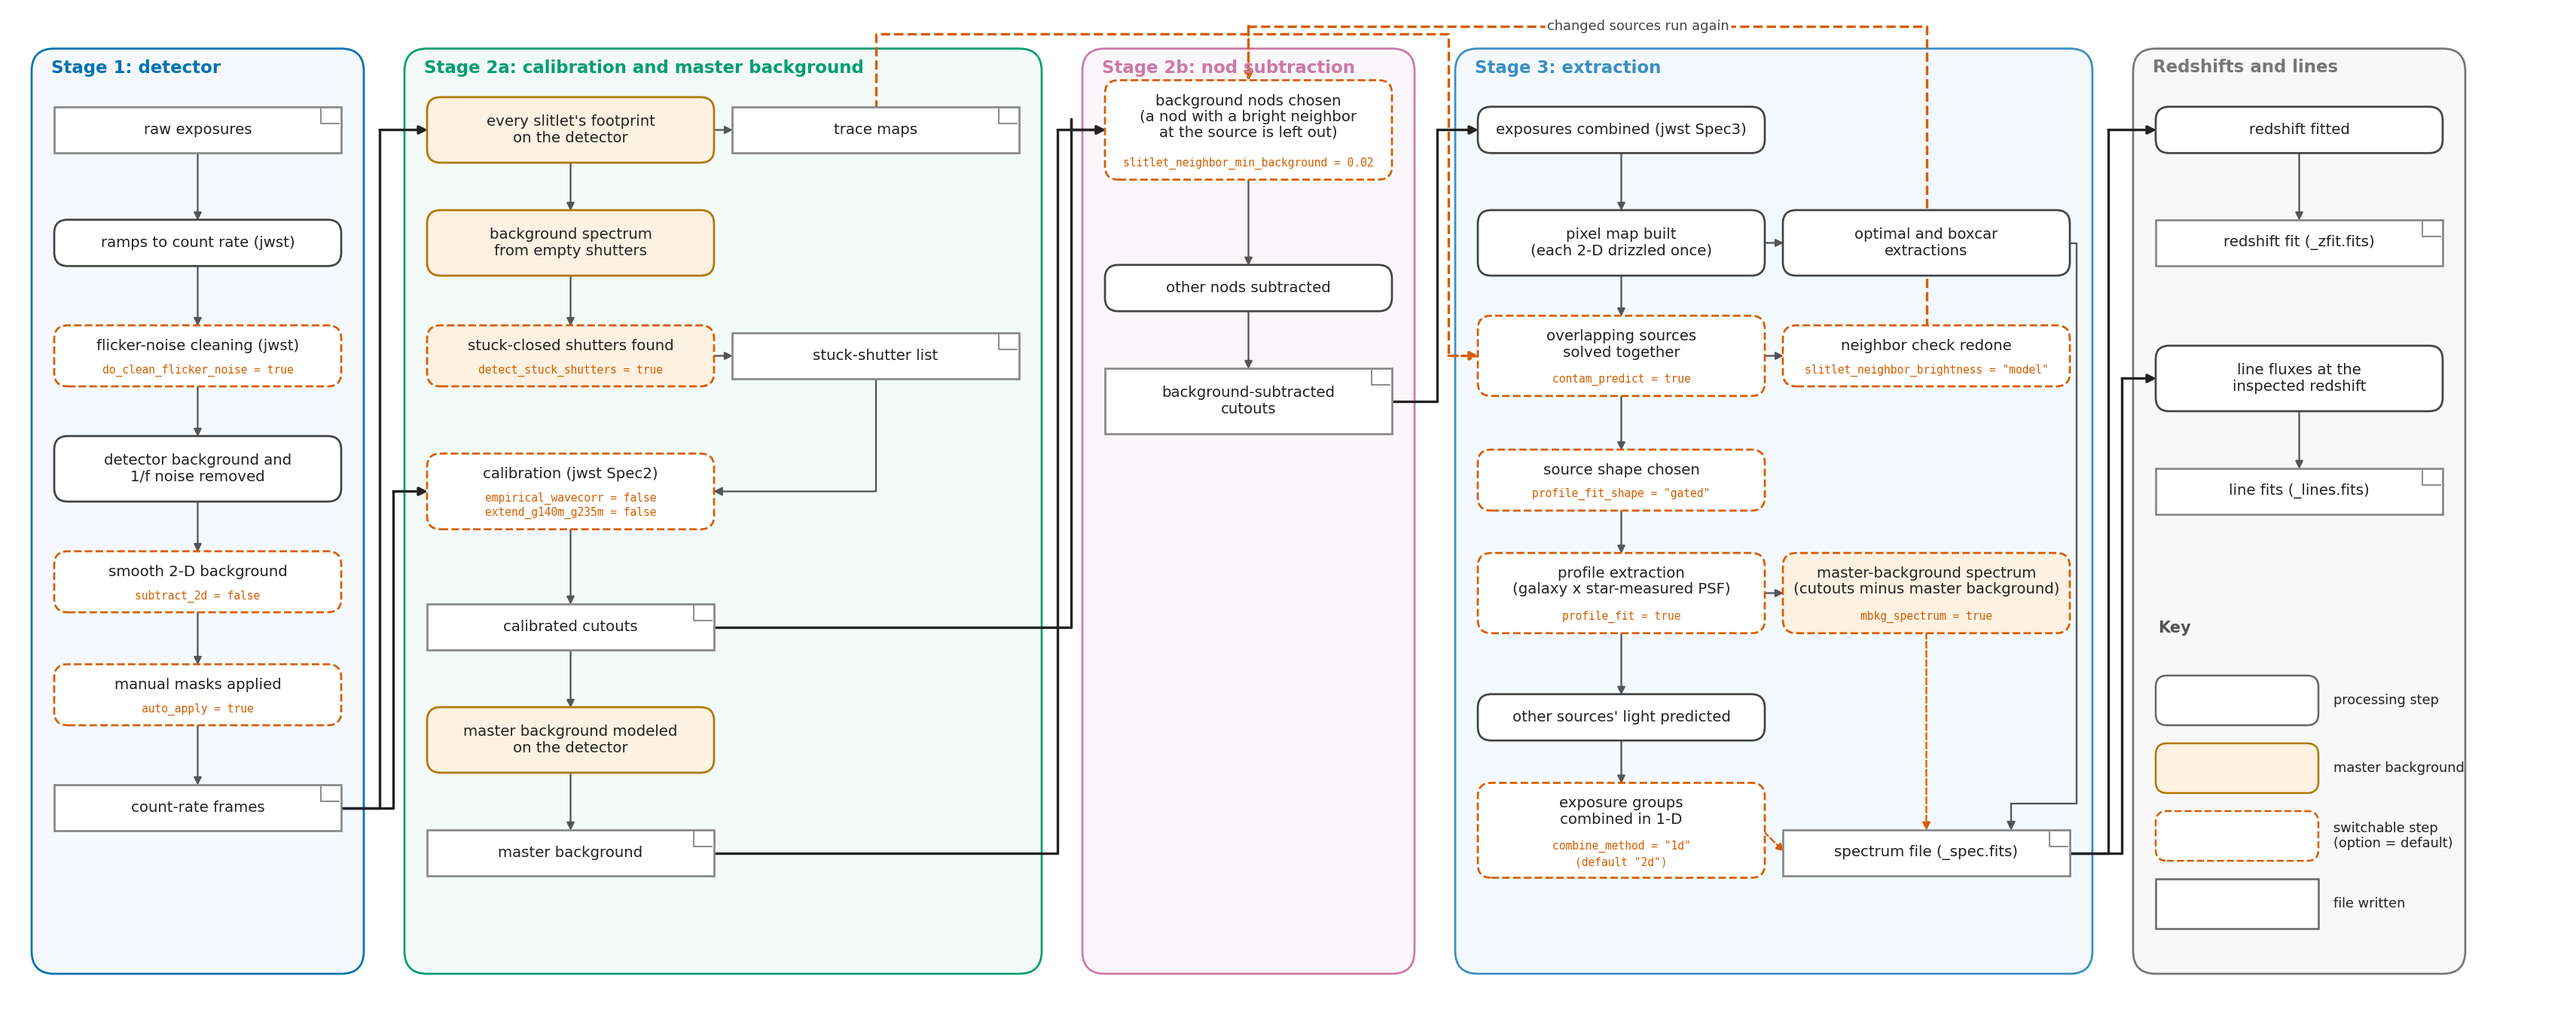
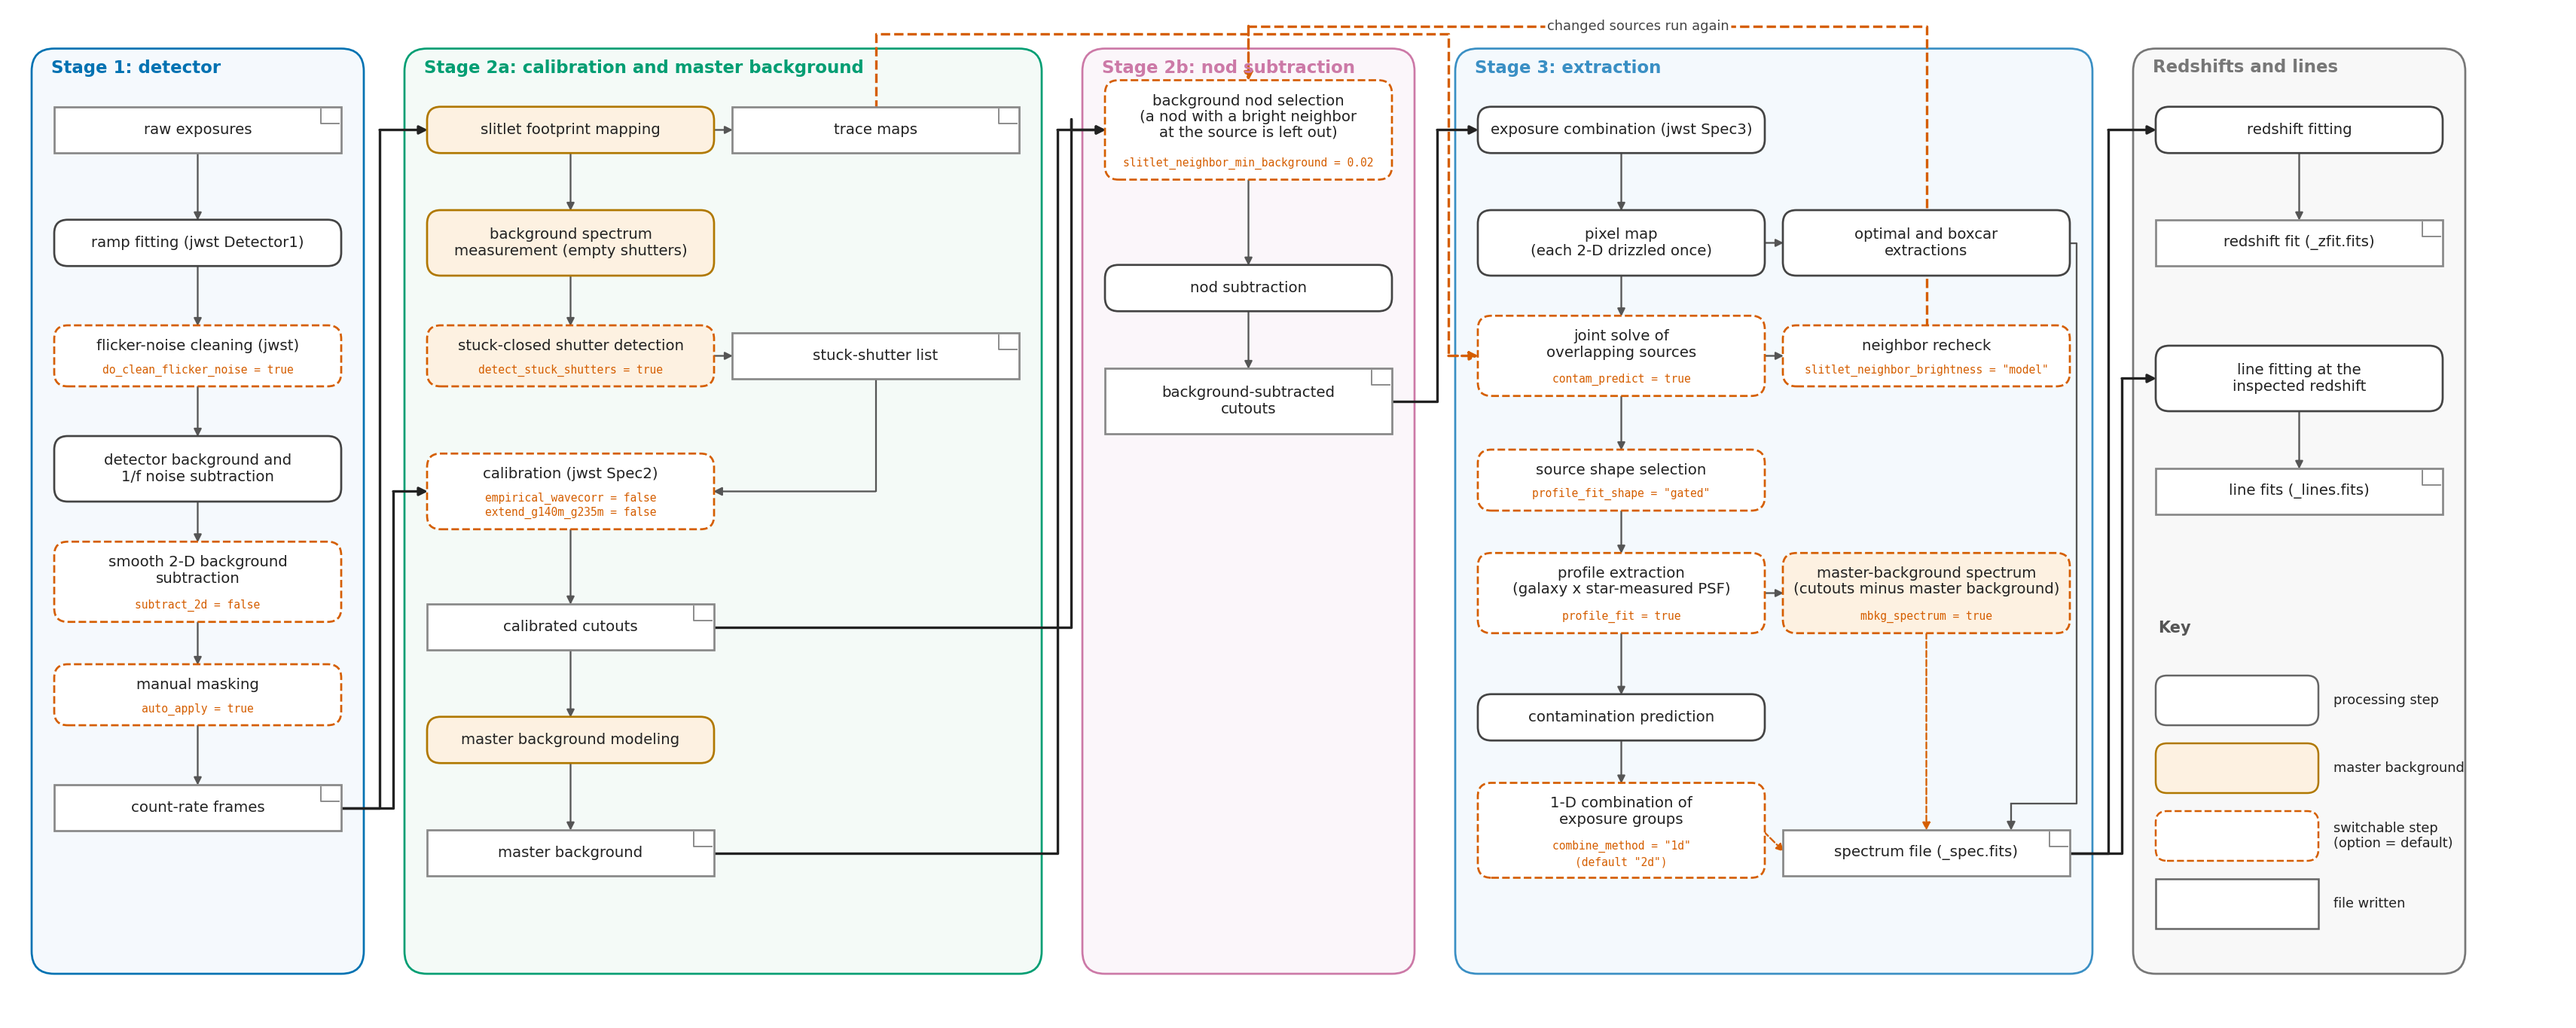
docs: flow diagram steps named as noun phrases
Claude-Session: https://claude.ai/code/session_019a5zAo87B6jUK2ZMiF6xjZ

diff --git a/scripts/docs/nirspec/fig_flow.py b/scripts/docs/nirspec/fig_flow.py
@@ -42,46 +42,46 @@ c1, c2a, c2b, c2b2, c3a, c3b, c4 = 0.2, 3.5, 6.2, 9.5, 12.8, 15.5, 18.8
 # name: (x of left edge, row, text, kind, options); kind: step | mb | file
 N = {
     'uncal':  (c1, 0, 'raw exposures', 'file', ()),
-    'det1':   (c1, 1, 'ramps to count rate (jwst)', 'step', ()),
+    'det1':   (c1, 1, 'ramp fitting (jwst Detector1)', 'step', ()),
     'cfn':    (c1, 2, 'flicker-noise cleaning (jwst)', 'step', (knob('stage1', 'do_clean_flicker_noise'),)),
-    'bkg1':   (c1, 3, 'detector background and\n1/f noise removed', 'step', ()),
-    'bkg2d':  (c1, 4, 'smooth 2-D background', 'step', (knob('stage1', 'subtract_2d'),)),
-    'mask':   (c1, 5, 'manual masks applied', 'step', ('auto_apply = true',)),
+    'bkg1':   (c1, 3, 'detector background and\n1/f noise subtraction', 'step', ()),
+    'bkg2d':  (c1, 4, 'smooth 2-D background\nsubtraction', 'step', (knob('stage1', 'subtract_2d'),)),
+    'mask':   (c1, 5, 'manual masking', 'step', ('auto_apply = true',)),
     'rate':   (c1, 6, 'count-rate frames', 'file', ()),
 
-    'geo':    (c2a, 0, 'every slitlet\'s footprint\non the detector', 'mb', ()),
+    'geo':    (c2a, 0, 'slitlet footprint mapping', 'mb', ()),
     'tmap':   (c2b, 0, 'trace maps', 'file', ()),
-    'mb1':    (c2a, 1, 'background spectrum\nfrom empty shutters', 'mb', ()),
-    'sfit':   (c2a, 2, 'stuck-closed shutters found', 'mb', (knob('stage2', 'detect_stuck_shutters'),)),
+    'mb1':    (c2a, 1, 'background spectrum\nmeasurement (empty shutters)', 'mb', ()),
+    'sfit':   (c2a, 2, 'stuck-closed shutter detection', 'mb', (knob('stage2', 'detect_stuck_shutters'),)),
     'stuck':  (c2b, 2, 'stuck-shutter list', 'file', ()),
     'spec2':  (c2a, 3.2, 'calibration (jwst Spec2)', 'step',
                (knob('stage2', 'empirical_wavecorr'), knob('stage2', 'extend_g140m_g235m'))),
     'canon':  (c2a, 4.4, 'calibrated cutouts', 'file', ()),
-    'mb2':    (c2a, 5.4, 'master background modeled\non the detector', 'mb', ()),
+    'mb2':    (c2a, 5.4, 'master background modeling', 'mb', ()),
     'mbkg':   (c2a, 6.4, 'master background', 'file', ()),
 
-    'nbr':    (c2b2, 0, 'background nods chosen\n(a nod with a bright neighbor\nat the source is left out)', 'step',
+    'nbr':    (c2b2, 0, 'background nod selection\n(a nod with a bright neighbor\nat the source is left out)', 'step',
                (knob('stage2', 'slitlet_neighbor_min_background'),)),
-    'sub':    (c2b2, 1.4, 'other nods subtracted', 'step', ()),
+    'sub':    (c2b2, 1.4, 'nod subtraction', 'step', ()),
     'bsub':   (c2b2, 2.4, 'background-subtracted\ncutouts', 'file', ()),
 
-    'spec3':  (c3a, 0, 'exposures combined (jwst Spec3)', 'step', ()),
-    'dmap':   (c3a, 1, 'pixel map built\n(each 2-D drizzled once)', 'step', ()),
-    'joint':  (c3a, 2, 'overlapping sources\nsolved together', 'step', (knob('stage3', 'contam_predict'),)),
-    'recheck': (c3b, 2, 'neighbor check redone', 'step', (knob('stage3', 'slitlet_neighbor_brightness'),)),
-    'shape':  (c3a, 3.1, 'source shape chosen', 'step', (knob('stage3', 'profile_fit_shape'),)),
+    'spec3':  (c3a, 0, 'exposure combination (jwst Spec3)', 'step', ()),
+    'dmap':   (c3a, 1, 'pixel map\n(each 2-D drizzled once)', 'step', ()),
+    'joint':  (c3a, 2, 'joint solve of\noverlapping sources', 'step', (knob('stage3', 'contam_predict'),)),
+    'recheck': (c3b, 2, 'neighbor recheck', 'step', (knob('stage3', 'slitlet_neighbor_brightness'),)),
+    'shape':  (c3a, 3.1, 'source shape selection', 'step', (knob('stage3', 'profile_fit_shape'),)),
     'pfit':   (c3a, 4.1, 'profile extraction\n(galaxy x star-measured PSF)', 'step', (knob('stage3', 'profile_fit'),)),
     'opt':    (c3b, 1, 'optimal and boxcar\nextractions', 'step', ()),
     'mbs':    (c3b, 4.1, 'master-background spectrum\n(cutouts minus master background)', 'mb',
                (knob('stage3', 'mbkg_spectrum'),)),
-    'contam': (c3a, 5.2, 'other sources\' light predicted', 'step', ()),
-    'comb':   (c3a, 6.2, 'exposure groups\ncombined in 1-D', 'step',
+    'contam': (c3a, 5.2, 'contamination prediction', 'step', ()),
+    'comb':   (c3a, 6.2, '1-D combination of\nexposure groups', 'step',
                ('combine_method = "1d"', '(default "' + CFG['stage3']['combine_method'] + '")')),
     'spec':   (c3b, 6.4, 'spectrum file (_spec.fits)', 'file', ()),
 
-    'zfit':   (c4, 0, 'redshift fitted', 'step', ()),
+    'zfit':   (c4, 0, 'redshift fitting', 'step', ()),
     'zf':     (c4, 1, 'redshift fit (_zfit.fits)', 'file', ()),
-    'lines':  (c4, 2.2, 'line fluxes at the\ninspected redshift', 'step', ()),
+    'lines':  (c4, 2.2, 'line fitting at the\ninspected redshift', 'step', ()),
     'lf':     (c4, 3.2, 'line fits (_lines.fits)', 'file', ()),
 }
 
